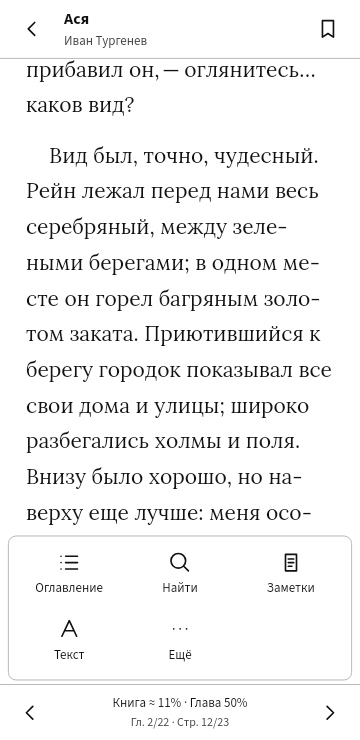
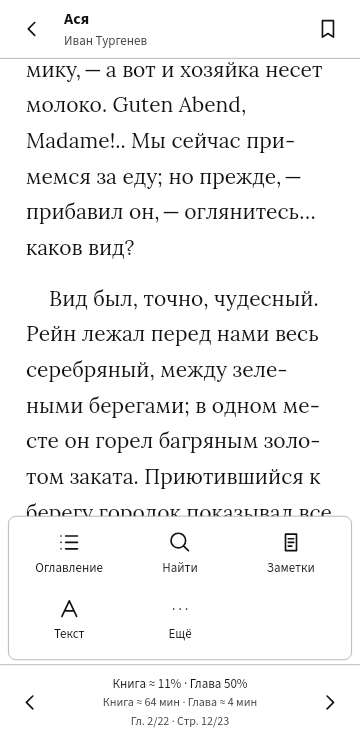
Show adaptive remaining reading time for book and chapter

diff --git a/app/src/main/assets/reader-features.js b/app/src/main/assets/reader-features.js
@@ -13,7 +13,7 @@ async function openReader(id){
 }
 function renderReader(position=0){
  const r=state.reader;if(!r)return;$('.reader')?.remove();const el=document.createElement('section');el.className='reader';el.setAttribute('aria-label','Чтение книги');
- el.innerHTML=`<header class="reader-head" hidden><button class="icon-btn" id="exit-reader" aria-label="В библиотеку">${icon('back')}</button><div class="reader-meta"><strong>${esc(r.book.title)}</strong><span>${esc(r.book.author)}</span></div><button class="icon-btn" id="add-bookmark" aria-label="Добавить закладку">${icon('bookmark')}</button></header><div class="reader-text" id="reading-area"><article id="article"></article></div><nav class="reader-menu" hidden aria-label="Управление чтением">${readerToolbarHTML()}</nav><footer class="reader-foot"><button class="icon-btn" id="prev-page" aria-label="Предыдущая страница">${icon('back')}</button><button id="reader-menu-toggle" aria-label="Открыть управление чтением"><span id="reading-percent"></span><span id="page-label"></span></button><button class="icon-btn" id="next-page" aria-label="Следующая страница">${icon('arrow')}</button></footer>`;
+ el.innerHTML=`<header class="reader-head" hidden><button class="icon-btn" id="exit-reader" aria-label="В библиотеку">${icon('back')}</button><div class="reader-meta"><strong>${esc(r.book.title)}</strong><span>${esc(r.book.author)}</span></div><button class="icon-btn" id="add-bookmark" aria-label="Добавить закладку">${icon('bookmark')}</button></header><div class="reader-text" id="reading-area"><article id="article"></article></div><nav class="reader-menu" hidden aria-label="Управление чтением">${readerToolbarHTML()}</nav><footer class="reader-foot"><button class="icon-btn" id="prev-page" aria-label="Предыдущая страница">${icon('back')}</button><button id="reader-menu-toggle" aria-label="Открыть управление чтением"><span id="reading-percent"></span><span id="time-remaining"></span><span id="page-label"></span></button><button class="icon-btn" id="next-page" aria-label="Следующая страница">${icon('arrow')}</button></footer>`;
  app.appendChild(el);$('#exit-reader').onclick=exitReader;$('#add-bookmark').onclick=addBookmark;$('#reader-menu-toggle').onclick=()=>toggleReaderChrome();$('#prev-page').onclick=()=>turn(-1);$('#next-page').onclick=()=>turn(1);bindReaderToolbar();
  applyReadingStyle();loadChapter(r.chapter,position);installReaderGestures();$('#reading-area').onscroll=()=>{if(effectiveReadingSettings().readingMode==='scroll'&&!r.restoring){clearTimeout(r.saveTimer);r.saveTimer=setTimeout(()=>{updateReaderProgress();persistReading()},180)}};
  if(!prefs.gesturesShown){prefs.gesturesShown=true;save();sheet('Управление чтением','<div class="gesture-guide"><span>Левый край<br>← Назад</span><span>Центр<br>Меню</span><span>Правый край<br>Вперёд →</span></div><p class="description">Удерживайте слово для выделения. Схему касаний можно изменить в настройках устройства.</p><button class="primary full" id="gestures-understood">Понятно</button>',true);$('#gestures-understood').onclick=closeSheet}
@@ -43,8 +43,11 @@ function layoutReader(position){
 }
 function textRange(block,char=0){const walker=document.createTreeWalker(block,NodeFilter.SHOW_TEXT);let n,remaining=Math.max(0,char);while(n=walker.nextNode()){if(remaining<=n.textContent.length){const range=document.createRange();range.setStart(n,remaining);range.setEnd(n,Math.min(n.textContent.length,remaining+1));return range}remaining-=n.textContent.length}const range=document.createRange();range.selectNodeContents(block);range.collapse(true);return range}
 function resolvedAnchor(anchor){const r=state.reader;let index=Math.max(0,Math.min(r.blocks.length-1,Number(anchor?.block??anchor?.paragraph)||0));let block=r.blocks[index];if(!block)return null;let char=Math.max(0,Math.min(block.textContent.length,Number(anchor?.char)||0));if(anchor?.excerpt&&block.textContent.slice(char,char+anchor.excerpt.length)!==anchor.excerpt){const found=r.blocks.findIndex(b=>b.textContent.includes(anchor.excerpt));if(found>=0){index=found;block=r.blocks[index];char=block.textContent.indexOf(anchor.excerpt)}}return {block,index,char}}
-function pageForAnchor(anchor){const a=resolvedAnchor(anchor);if(!a)return 0;const rect=textRange(a.block,a.char).getBoundingClientRect(),root=$('#article').getBoundingClientRect();return Math.floor(Math.max(0,rect.left-root.left+1)/state.reader.stride)}
-function restoreScrollAnchor(anchor){const a=resolvedAnchor(anchor);if(!a)return;const area=$('#reading-area'),rect=textRange(a.block,a.char).getBoundingClientRect();area.scrollTop+=rect.top-area.getBoundingClientRect().top-16}
+// A character at a hyphenated column boundary may have both the previous hyphen
+// and the current glyph as fragments. Its bounding union points to the old page.
+function textAnchorRect(block,char){const range=textRange(block,char),rects=[...range.getClientRects()].filter(rect=>rect.width>0&&rect.height>0);return rects[rects.length-1]||range.getBoundingClientRect()}
+function pageForAnchor(anchor){const a=resolvedAnchor(anchor);if(!a)return 0;const rect=textAnchorRect(a.block,a.char),root=$('#article').getBoundingClientRect();return Math.floor(Math.max(0,rect.left-root.left+1)/state.reader.stride)}
+function restoreScrollAnchor(anchor){const a=resolvedAnchor(anchor);if(!a)return;const area=$('#reading-area'),rect=textAnchorRect(a.block,a.char);area.scrollTop+=rect.top-area.getBoundingClientRect().top-16}
 function captureReadingAnchor(){
  const r=state.reader,a=$('#reading-area');if(!r||!a||!r.blocks?.length)return null;const bounds=a.getBoundingClientRect(),margin=effectiveReadingSettings().margin;
  for(let i=0;i<r.blocks.length;i++){const block=r.blocks[i],rects=[...block.getClientRects()];if(!rects.some(x=>x.right>bounds.left+margin&&x.left<bounds.right-margin&&x.bottom>bounds.top+16&&x.top<bounds.bottom-12))continue;
@@ -105,5 +108,5 @@ function saveWord(word,text){prefs.vocabulary??=[];prefs.vocabulary=prefs.vocabu
 async function dictionaryDialog(quote){const word=quote.trim().slice(0,80);sheet('Значение слова',`<label class="field-label">Слово<input class="field" id="dictionary-word" value="${esc(word)}" maxlength="80"></label><div id="dictionary-result" class="dictionary-result" role="status">Проверяем локальный словарь…</div><button class="secondary full" id="dictionary-online">Запросить Викисловарь</button><button class="secondary full" id="dictionary-save" hidden>Сохранить в мой словарь</button><p class="description">Онлайн-запрос отправляет слово в Русский Викисловарь. Полученная статья сохраняется для чтения без сети.</p>`,!!state.reader);const out=$('#dictionary-result'),input=$('#dictionary-word');const lookup=async online=>{out.textContent='Ищем…';try{const r=await api('dictionary',{word:input.value.trim(),online});if(!out.isConnected)return;out.textContent=r.text+'\n\n'+r.source+(r.cached?' · на устройстве':'');$('#dictionary-save').hidden=false;$('#dictionary-save').onclick=()=>saveWord(input.value.trim(),r.text)}catch(e){if(out.isConnected)out.textContent=e.message}};$('#dictionary-online').onclick=()=>lookup(true);await lookup(false)}
 const LANGUAGES=[['ru','Русский'],['en','Английский'],['de','Немецкий'],['fr','Французский'],['pl','Польский'],['es','Испанский'],['it','Итальянский'],['be','Белорусский'],['uk','Украинский']];
 function translationDialog(quote){const from=/[а-яё]/i.test(quote)?'ru':prefs.translateFrom||'en',to=prefs.translateTo&&prefs.translateTo!==from?prefs.translateTo:from==='ru'?'en':'ru';sheet('Перевод',`<textarea class="field" id="translation-input" rows="2" maxlength="300">${esc(quote.slice(0,300))}</textarea><div class="translation-languages"><label class="field-label">С языка<select class="field" id="translate-from">${LANGUAGES.map(([id,t])=>`<option value="${id}">${t}</option>`).join('')}</select></label><label class="field-label">На язык<select class="field" id="translate-to">${LANGUAGES.map(([id,t])=>`<option value="${id}">${t}</option>`).join('')}</select></label></div><button class="primary full" id="translate-word">Перевести</button><div id="translation-result" class="translation-result" role="status"></div><button class="secondary full" id="translation-save" hidden>Сохранить слово</button><p class="description">MyMemory · текст отправляется по нажатию «Перевести». Последние 100 результатов доступны из кэша.</p>`,!!state.reader);$('#translate-from').value=from;$('#translate-to').value=to;$('#translate-word').onclick=async()=>{const text=$('#translation-input').value.trim(),from=$('#translate-from').value,to=$('#translate-to').value,out=$('#translation-result'),button=$('#translate-word');if(!text)return;if(from===to){out.textContent=text;return}const key=from+'|'+to+'|'+text;prefs.translationCache??={};button.disabled=true;out.textContent='Переводим…';try{const cached=prefs.translationCache[key],result=cached||((await api('translate',{text,from,to})).text);prefs.translateFrom=from;prefs.translateTo=to;prefs.translationCache[key]=result;const keys=Object.keys(prefs.translationCache);if(keys.length>100)delete prefs.translationCache[keys[0]];save();if(!out.isConnected)return;out.textContent=result+(cached?' · из кэша':'');$('#translation-save').hidden=false;$('#translation-save').onclick=()=>saveWord(text,result)}catch(e){if(out.isConnected)out.textContent=e.message}finally{if(button.isConnected)button.disabled=false}}}
-document.addEventListener('visibilitychange',()=>{if(document.hidden)persistReading()});window.addEventListener('resize',()=>{const r=state.reader;if(r){const anchor=r.liveAnchor||meta(r.book.id).anchor;clearTimeout(r.resizeTimer);r.resizeTimer=setTimeout(()=>{if(state.reader===r)layoutReader(anchor)},80)}});
+document.addEventListener('visibilitychange',()=>{if(document.hidden)persistReading()});window.addEventListener('resize',()=>{const r=state.reader;if(r){const anchor=r.liveAnchor||meta(r.book.id).anchor;clearTimeout(r.resizeTimer);r.resizeTimer=setTimeout(()=>{if(state.reader===r)layoutReader(r.settingsAnchor||r.liveAnchor||anchor)},80)}});
 document.addEventListener('keydown',e=>{if(!state.reader||overlay.childElementCount||['INPUT','SELECT','TEXTAREA'].includes(document.activeElement.tagName))return;if(['ArrowRight','PageDown'].includes(e.key)){e.preventDefault();turn(1)}if(['ArrowLeft','PageUp'].includes(e.key)){e.preventDefault();turn(-1)}});

diff --git a/app/src/main/assets/reading-time.js b/app/src/main/assets/reading-time.js
@@ -1,0 +1,29 @@
+'use strict';
+
+function readingPacePlace(){
+ const r=state.reader,a=$('#reading-area');if(!r?.progressBook||!a)return null;
+ const m=meta(r.book.id),s=effectiveReadingSettings(),p=r.progressBook;
+ return {chapter:r.chapter,page:r.page,offset:m.offset,characters:p.before[r.chapter]+p.lengths[r.chapter]*m.offset,signature:[s.font,s.size,s.line,s.margin,s.readingMode,a.clientWidth,a.clientHeight,r.pages].join('|')};
+}
+function readingPaceStamp(){const r=state.reader,place=readingPacePlace();if(r&&place&&statsSession?.bookId===r.book.id&&!r.restoring)r.paceStamp={...place,seconds:statsSession.readingSeconds||0,session:statsSession}}
+function updateReadingTime(){
+ const r=state.reader,node=$('#time-remaining');if(!r?.progressBook||!node)return;
+ const estimate=ReadingTimeModel.estimate(r.progressBook,r.chapter,meta(r.book.id).offset,prefs.statistics);
+ node.textContent=`Книга ≈ ${ReadingTimeModel.label(estimate.bookMinutes)} · Глава ≈ ${ReadingTimeModel.label(estimate.chapterMinutes)}`;
+ node.title=`Примерно ${estimate.bookMinutes} мин до конца книги и ${estimate.chapterMinutes} мин до конца главы. ${estimate.personal?'По вашему темпу чтения':'Начальная оценка: 1200 знаков в минуту; после нескольких прочитанных страниц темп уточняется'}.`;
+ node.setAttribute('aria-label',node.title);
+ if(!r.paceStamp)readingPaceStamp();
+}
+const remainingTimeProgress=updateReaderProgress;
+updateReaderProgress=function(){remainingTimeProgress();updateReadingTime()};
+const remainingTimeTurn=turn;
+turn=function(direction){
+ const r=state.reader;if(!r)return remainingTimeTurn(direction);
+ statsFlush();const from=readingPacePlace(),stamp=r.paceStamp,session=statsSession,seconds=session?.readingSeconds||0,eligible=statsCanRead()&&!r.restoring;
+ remainingTimeTurn(direction);if(state.reader!==r)return;
+ const to=readingPacePlace();if(!from||!to||from.characters===to.characters)return;
+ if(eligible&&direction===1&&stamp?.session===session&&stamp.chapter===from.chapter&&stamp.signature===from.signature&&Math.abs(stamp.characters-from.characters)<1&&to.chapter===from.chapter&&to.signature===from.signature&&to.characters>from.characters){
+  if(ReadingTimeModel.addSample(statsData(),to.characters-from.characters,seconds-stamp.seconds))save();
+ }
+ readingPaceStamp();updateReadingTime();
+};

diff --git a/app/src/main/assets/reading-time-model.js b/app/src/main/assets/reading-time-model.js
@@ -1,0 +1,22 @@
+'use strict';
+const ReadingTimeModel=(()=>{
+ const DEFAULT_CPM=1200,MAX_SAMPLES=40;
+ function valid(sample){return sample&&Number.isFinite(sample.characters)&&Number.isFinite(sample.seconds)&&sample.characters>0&&sample.seconds>=4&&sample.seconds<=180&&sample.characters*60/sample.seconds>=100&&sample.characters*60/sample.seconds<=5000}
+ function samples(statistics){return (Array.isArray(statistics?.pace?.samples)?statistics.pace.samples:[]).slice(-MAX_SAMPLES).filter(valid)}
+ function pace(statistics){
+  const history=samples(statistics),seconds=history.reduce((n,s)=>n+s.seconds,0),characters=history.reduce((n,s)=>n+s.characters,0),personal=statistics?.enabled!==false&&history.length>=3&&seconds>=90&&characters>=900;
+  return {cpm:personal?Math.max(200,Math.min(3000,characters*60/seconds)):DEFAULT_CPM,personal,samples:history.length};
+ }
+ function addSample(statistics,characters,seconds){
+  const next={characters,seconds};if(!statistics||statistics.enabled===false||!valid(next))return false;
+  statistics.pace={samples:[...samples(statistics),next].slice(-MAX_SAMPLES)};return true;
+ }
+ function estimate(progress,chapter,offset,statistics){
+  const lengths=Array.isArray(progress?.lengths)?progress.lengths:[],index=Math.max(0,Math.min(lengths.length-1,Math.trunc(Number(chapter)||0))),fraction=Math.max(0,Math.min(1,Number(offset)||0)),speed=pace(statistics);
+  const chapterLeft=Math.max(0,(lengths[index]||0)*(1-fraction)),later=Number.isFinite(progress?.total)&&Number.isFinite(progress?.before?.[index])?Math.max(0,progress.total-progress.before[index]-(lengths[index]||0)):lengths.slice(index+1).reduce((n,length)=>n+Math.max(0,Number(length)||0),0),bookLeft=chapterLeft+later;
+  return {...speed,bookMinutes:Math.ceil(bookLeft/speed.cpm),chapterMinutes:Math.ceil(chapterLeft/speed.cpm),bookCharacters:bookLeft,chapterCharacters:chapterLeft};
+ }
+ function label(minutes){return minutes>999?Math.ceil(minutes/60)+' ч':minutes+' мин'}
+ return {DEFAULT_CPM,pace,addSample,estimate,label};
+})();
+if(typeof module!=='undefined'&&module.exports)module.exports=ReadingTimeModel;

diff --git a/app/src/main/assets/style.css b/app/src/main/assets/style.css
@@ -14,3 +14,4 @@
 .yandex-library-panel{display:flex;align-items:center;gap:12px;flex-wrap:wrap;margin:12px 0 20px;padding:14px;border:1px solid var(--line,#ccc);border-radius:12px}.yandex-library-panel>span{flex:1;min-width:180px}#yandex-account-panel>.full{margin-top:10px}
 .reader-menu{grid-template-columns:repeat(auto-fit,minmax(88px,1fr))}.reader-menu #return-place{grid-column:1/-1}.reader-menu button{min-width:0;overflow-wrap:normal;word-break:normal;hyphens:none;white-space:nowrap}.reader-menu #return-place{white-space:normal;text-wrap:balance}.toc-item{overflow-wrap:normal;word-break:normal;hyphens:none;text-wrap:pretty}
 .profile-row,.toolbar-edit-row{display:flex;align-items:center;gap:6px;border-bottom:1px solid var(--line)}.profile-row .settings-link{flex:1;min-width:0}.profile-row small{display:block;color:var(--muted);font-size:13px;font-weight:400;margin-top:4px}.profile-row strong{overflow-wrap:anywhere}.toolbar-edit-row>span{display:flex;align-items:center;gap:8px;flex:1;min-width:0;overflow-wrap:anywhere}.toolbar-edit-row .icon-btn{min-width:44px;width:44px}.tap-zone-grid{display:grid;grid-template-columns:repeat(3,minmax(0,1fr));gap:8px;margin:16px 0}.tap-zone-cell{border:1px solid var(--line);border-radius:7px;padding:8px;min-width:0}.tap-zone-cell>span{display:block;font-size:12px;margin-bottom:6px;min-height:36px}.tap-zone-cell .field{margin:0;width:100%;font-size:13px;padding:6px}.tap-zone-test button{min-height:90px;white-space:normal}.reading-preview[data-theme=dark]{background:#202824;color:#e4e4d9}.reading-preview[data-theme=sepia]{background:#f2e5c9;color:#443b29}
+.reader-foot{height:76px}.reader-menu{bottom:80px}.selection-actions{bottom:92px}#time-remaining{font-size:12px;margin-top:3px;color:var(--muted)}

diff --git a/app/src/main/assets/index.html b/app/src/main/assets/index.html
@@ -1,3 +1,3 @@
 <!DOCTYPE html>
 <html lang="ru"><head><meta charset="UTF-8"><meta name="viewport" content="width=device-width, initial-scale=1, viewport-fit=cover"><meta name="theme-color" content="#f8f7f2"><title>ilenbook — время для книги</title><link rel="stylesheet" href="style.css"><link rel="stylesheet" href="features.css"><link rel="stylesheet" href="discovery.css"></head>
-<body><div id="app"></div><div id="overlay"></div><div id="toast" role="status"></div><script src="catalog-sources.js"></script><script src="app.js"></script><script src="reader-features.js"></script><script src="catalog-features.js"></script><script src="statistics.js"></script><script src="yandex-features.js"></script><script src="reader-customization.js"></script><script src="library-ui.js"></script><script src="reader-search.js"></script><script src="flibusta-network.js"></script></body></html>
+<body><div id="app"></div><div id="overlay"></div><div id="toast" role="status"></div><script src="catalog-sources.js"></script><script src="app.js"></script><script src="reader-features.js"></script><script src="catalog-features.js"></script><script src="statistics.js"></script><script src="yandex-features.js"></script><script src="reader-customization.js"></script><script src="library-ui.js"></script><script src="reader-search.js"></script><script src="reading-time-model.js"></script><script src="reading-time.js"></script><script src="flibusta-network.js"></script></body></html>

diff --git a/app/src/main/assets/statistics.js b/app/src/main/assets/statistics.js
@@ -9,7 +9,7 @@ function statsCanRead(){return !!state.reader&&!state.reader.chrome&&!overlay.ch
 function statsAddInterval(start,end,bookId){while(start<end){const midnight=new Date(start);midnight.setHours(24,0,0,0);const next=Math.min(end,midnight.getTime()),seconds=(next-start)/1000,d=statsDay(dayKey(start));d.seconds+=seconds;d.books[bookId]=(d.books[bookId]||0)+seconds;start=next}}
 function statsFlush(now=Date.now()){
  if(!statsSession)return;const s=statsSession,end=Math.min(now,s.lastActivity+STATS_IDLE_MS);
- if(s.active&&now>=s.lastTick&&now-s.lastTick<120000&&end>s.lastTick)statsAddInterval(s.lastTick,end,s.bookId);
+ if(s.active&&now>=s.lastTick&&now-s.lastTick<120000&&end>s.lastTick){statsAddInterval(s.lastTick,end,s.bookId);s.readingSeconds=(s.readingSeconds||0)+(end-s.lastTick)/1000;}
  s.lastTick=now;
 }
 function statsSetActive(active){statsFlush();if(statsSession){statsSession.active=!!active;statsSession.lastTick=Date.now()}}

diff --git a/docs/VALIDATION_0.7.1.md b/docs/VALIDATION_0.7.1.md
@@ -6,7 +6,9 @@
 
 `tools/test-parser.ps1`: **96 проверок пройдены** — прежние 80 проверок парсинга, резервной копии, протокола Яндекса, параллельного сетевого запроса и публичных каталогов; ещё 16 проверок адресов Флибусты и перенаправлений через Tor.
 
-Проверен синтаксис всех JavaScript-файлов. APK собран без `-DebugWebView`; `android:debuggable=false`, пакет `by.list.reader`, versionCode 8, versionName 0.7.1. Сертификат совпадает с предыдущим релизом. Все 26 файлов assets внутри APK сравниваются с рабочими исходниками по SHA-256. Tor/Lyrebird включены для ARM64, ARMv7, x86 и x86_64; бинарные архивы проверяются по закреплённым SHA-256.
+`node tools/reading-time-checks.cjs`: **15 проверок расчёта оставшегося времени** — объём разных глав, округление, конец книги, личный темп, некорректные сохранённые значения, предел истории и отключённая статистика. Этот набор также запускается в GitHub Actions.
+
+Проверен синтаксис всех JavaScript-файлов. APK собран без `-DebugWebView`; `android:debuggable=false`, пакет `by.list.reader`, versionCode 8, versionName 0.7.1. Сертификат совпадает с предыдущим релизом. Все 28 файлов assets внутри APK сравниваются с рабочими исходниками по SHA-256. Tor/Lyrebird включены для ARM64, ARMv7, x86 и x86_64; бинарные архивы проверяются по закреплённым SHA-256.
 
 ## Флибуста: реальные сетевые запросы в Android
 
@@ -26,6 +28,8 @@
 
 `tools/v8-flibusta-ui-timing.cjs` проверяет настоящий общий интерфейс с выбранной Флибустой. «Толстый и тонкий»: до запроса кэш книг и авторов отсутствовал; первые книги появились за **1 146 мс**, поиск завершился за 1 159 мс. Повтор: первые книги за **41 мс**, завершение за 43 мс. Найдены две книги, ошибок источника нет.
 
+На окончательном APK с оставшимся временем чтения прямой сценарий повторён: корень 1 256 мс, поиск книг без кэша 384 мс, повтор из кэша 17 мс, авторы 356 мс, скачивание и разбор 12 795 мс. Русский текст и исходный `Каштанка.fb2.zip` подтверждены.
+
 ## Встроенный резервный путь
 
 `tools/v8-flibusta-reserve.cjs` принудительно выбирает Snowflake, проверяет живой корень, новый поисковый URL, обложку с новым параметром, скачивание FB2.ZIP и наличие русского текста. Прямой маршрут в этой проверке не используется.
@@ -37,6 +41,8 @@
 ## Чтение и интерфейс
 
 - `v8-reader-progress.cjs`: ширины 320/360/412/600 в браузере и Android WebView; «Оглавление» занимает одну строку, панель и проценты не выходят за экран. Отдельно сверяется взвешенный по длине текста процент всей книги и процент главы.
+- `v8-reading-time-ui.cjs`: 7 групп — время книги/главы на 320/360/412/600 px, сохранение личного темпа, исключение быстрых перелистываний и меню, отключение статистики, длинные книги и прокрутка. Время в проверках обучения задаётся тестовыми отсчётами, без ожидания реального чтения. Отдельно воспроизведён и устранён возврат на прежнюю страницу после отложенного resize.
+- `v4-statistics-checks.cjs`: 6 групп — активное время, пауза, бездействие, завершение, разделение по дням и экспорт.
 - `v8-flibusta-settings.cjs`: вход из поиска, сохранение режима в Android, настоящий тест каталога без кэша и отображение ответа.
 - `v6-reader-customization-checks.cjs`: 10 групп — профили, отдельное оформление, позиция после шрифта, меню и зоны. При проверках обнаружена ранняя готовность страницы до загрузки первого веб-шрифта; глава теперь ждёт выбранный шрифт, повторный полный прогон пройден.
 - `v6-search-progress-checks.cjs`: 6 групп — выдача книг до авторов, кэш/обновление, сетевой отказ и устаревшие ответы.

diff --git a/docs/USER_GUIDE.md b/docs/USER_GUIDE.md
@@ -1,8 +1,8 @@
-# Руководство ilenbook 0.7.0
+# Руководство ilenbook 0.7.1
 
 Android-читалка для сенсорной электронной книги, телефона и планшета, Android 8.0+. Есть универсальный режим E Ink. Испытания выполнены в Android-эмуляторе и браузере; физическое устройство ещё требует проверки.
 
-Установите APK 0.7.0 из [Releases](https://github.com/Lonviser/ilenbook/releases/latest) поверх прежней версии без удаления приложения. Пакет `by.list.reader` и прежний ключ подписи сохранены. Проверены обновления вплоть до 0.7 с сохранением тестовой библиотеки из 7 книг. После обновления создайте ZIP-копию локальной библиотеки в настройках.
+Установите APK 0.7.1 из [Releases](https://github.com/Lonviser/ilenbook/releases/latest) поверх прежней версии без удаления приложения. Пакет `by.list.reader` и прежний ключ подписи сохранены. Проверены обновления вплоть до 0.7 с сохранением тестовой библиотеки из 7 книг. После обновления создайте ZIP-копию локальной библиотеки в настройках.
 
 ## Что изменилось в 0.7
 
@@ -82,3 +82,5 @@ node tools/preview.cjs
 На вкладке «Поиск» откройте «Подключение Флибусты». По умолчанию выбран автоматический режим: приложение проверяет прямой HTTPS/HTTP и при недоступности сервера пробует встроенный Tor, затем мост Snowflake. Можно отдельно выбрать прямое соединение, Tor или Snowflake. Кнопка проверки обращается к живому каталогу, не используя сохранённую выдачу. Процент подготовки резервного соединения отображается во время запроса. Первый запуск может занять до трёх минут. Если выбранный способ не работает в вашей сети, попробуйте автоматический режим, Snowflake, VPN или другую сеть.
 
 В нижней панели чтения «Книга» означает прогресс по объёму текста всей книги, «Глава» — положение внутри текущей главы. Ниже указаны номер главы и страница в ней. Это приблизительный прогресс чтения, а не страницы печатного издания. Он работает и при постраничном чтении, и в прокрутке. Размер кнопок меню адаптируется к ширине экрана, поэтому подписи не разбиваются по отдельным буквам.
+
+Между процентами и номером страницы показано примерное время до конца книги и главы. Сначала используется 1200 знаков в минуту. После как минимум трёх подходящих перелистываний с суммарными 90 секундами активного чтения и 900 знаками расчёт переходит на ваш темп. Учитываются последовательные переходы вперёд внутри главы при неизменном оформлении; быстрые пролистывания, возвраты, меню и фоновое время не обучают оценку. В прокрутке оценка обновляется по положению текста. Длинные интервалы показываются в часах. Личный темп хранится только на устройстве, входит в ZIP-копию и удаляется при сбросе статистики. Если статистика отключена, остаётся начальная оценка.

diff --git a/docs/RELEASE_NOTES_0.7.1.md b/docs/RELEASE_NOTES_0.7.1.md
@@ -5,6 +5,8 @@
 - Добавлено встроенное резервное подключение к Флибусте через Tor и мост Snowflake. В разделе «Поиск → Подключение Флибусты» можно выбрать режим и проверить живой каталог. Отдельный Orbot не требуется.
 - Ширина кнопок панели чтения адаптируется к экрану. «Оглавление» больше не переносит последнюю букву на новую строку.
 - Внизу чтения отдельно показаны проценты всей книги и текущей главы, а также номера главы и страницы. Прогресс книги учитывает объём текста глав, а не только их количество.
+- Рядом с прогрессом показано примерное время до конца книги и главы. Начальная оценка — 1200 знаков в минуту; после нескольких страниц активного чтения используется личный темп. Он хранится локально вместе со статистикой. Быстрые перелистывания, возвраты и время в меню не обучают расчёт; при отключённой статистике остаётся начальная оценка.
+- Отложенная перестройка страницы после изменения размеров экрана сохраняет последнюю позицию, включая перелистывание до завершения перестройки.
 
 Устанавливайте `ilenbook-0.7.1.apk` поверх предыдущей версии без удаления приложения. Android 8.0+. Пакет и сертификат подписи сохранены.
 
